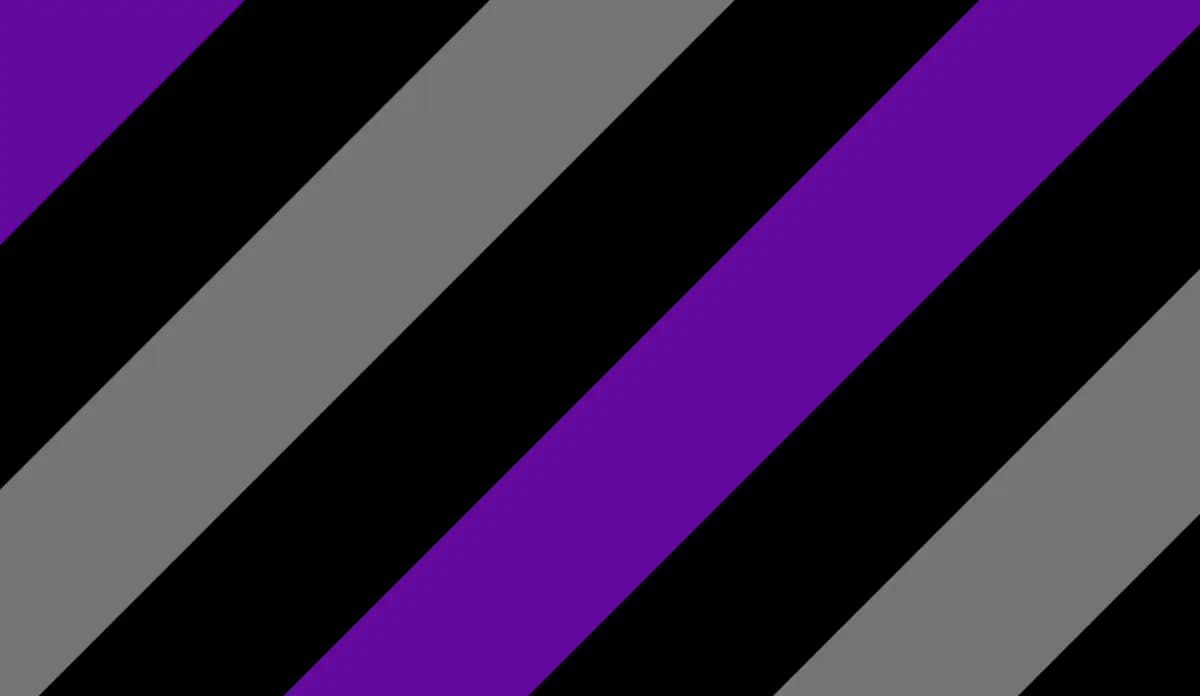
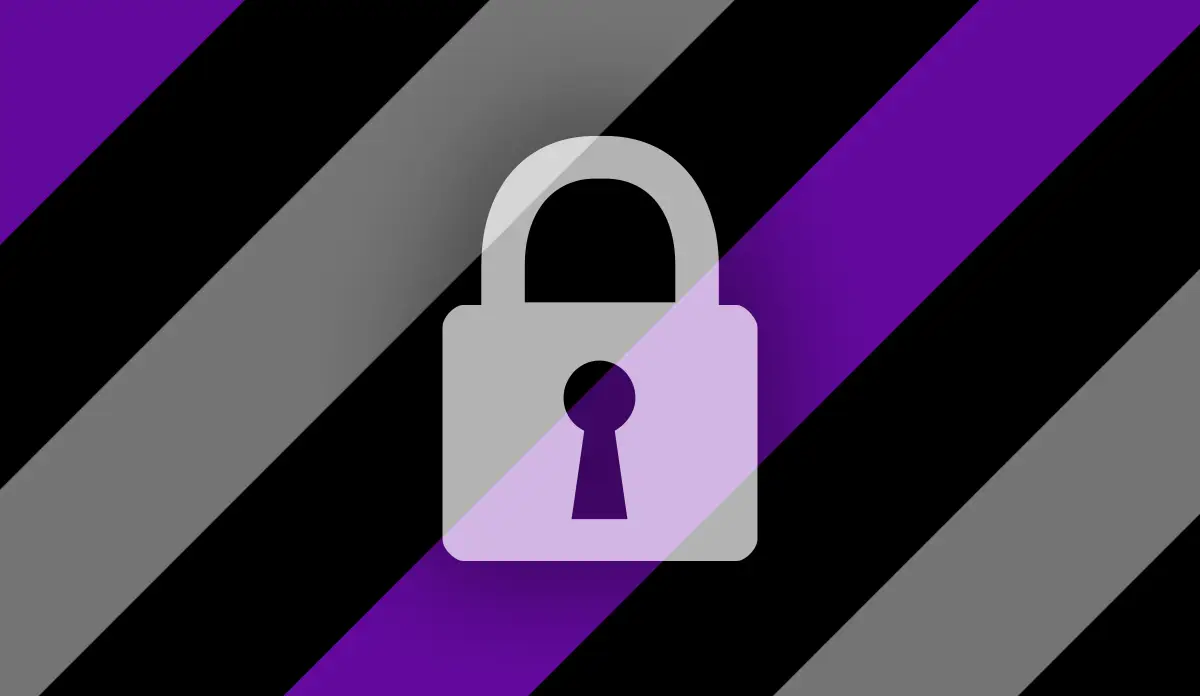
Added lock images to confidential projects. Fixed scroll cta reveal.

Changed region(s): [[0.3392, 0.181, 0.6783, 0.875]]

diff --git a/frontend/src/components/home-page/header-main/Hero.module.scss b/frontend/src/components/home-page/header-main/Hero.module.scss
@@ -75,6 +75,9 @@ header.hero {
   transition:
     transform 0.8s,
     border 0.8s;
+  // Slide in once the user has collided the slinger (after the post-collision delay)
+  // Support both current and legacy flag names.
+  :global(.hasAfterCollidedDelay.notScrolledOut) &,
   :global(.hasSlungDelay.notScrolledOut) & {
     border: 0 !important;
     transform: translateX(0);
@@ -106,6 +109,10 @@ a.scrollCta {
   transition:
     opacity 0.5s,
     transform 0.5s !important;
+  // Start bouncing attention animation when visible and slinger is idle
+  // Prefer the newer flags, but keep legacy for safety.
+  :global(.hasAfterCollidedDelay.isSlingerIdle) &,
+  :global(.hasCollided.isSlingerIdle) &,
   :global(.hasSlung.isSlingerIdle) & {
     animation-play-state: running !important;
   }